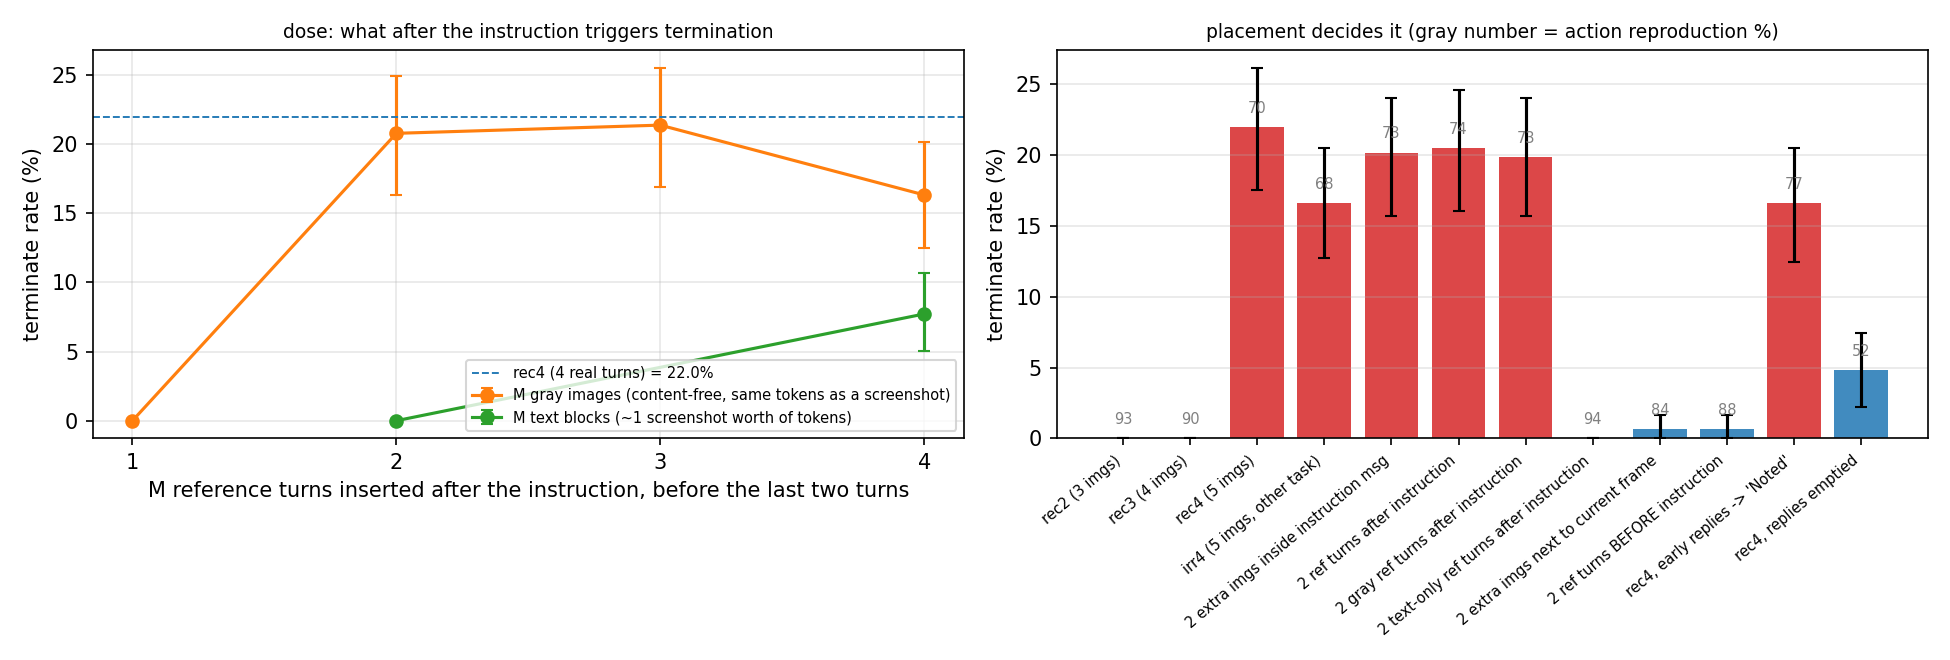
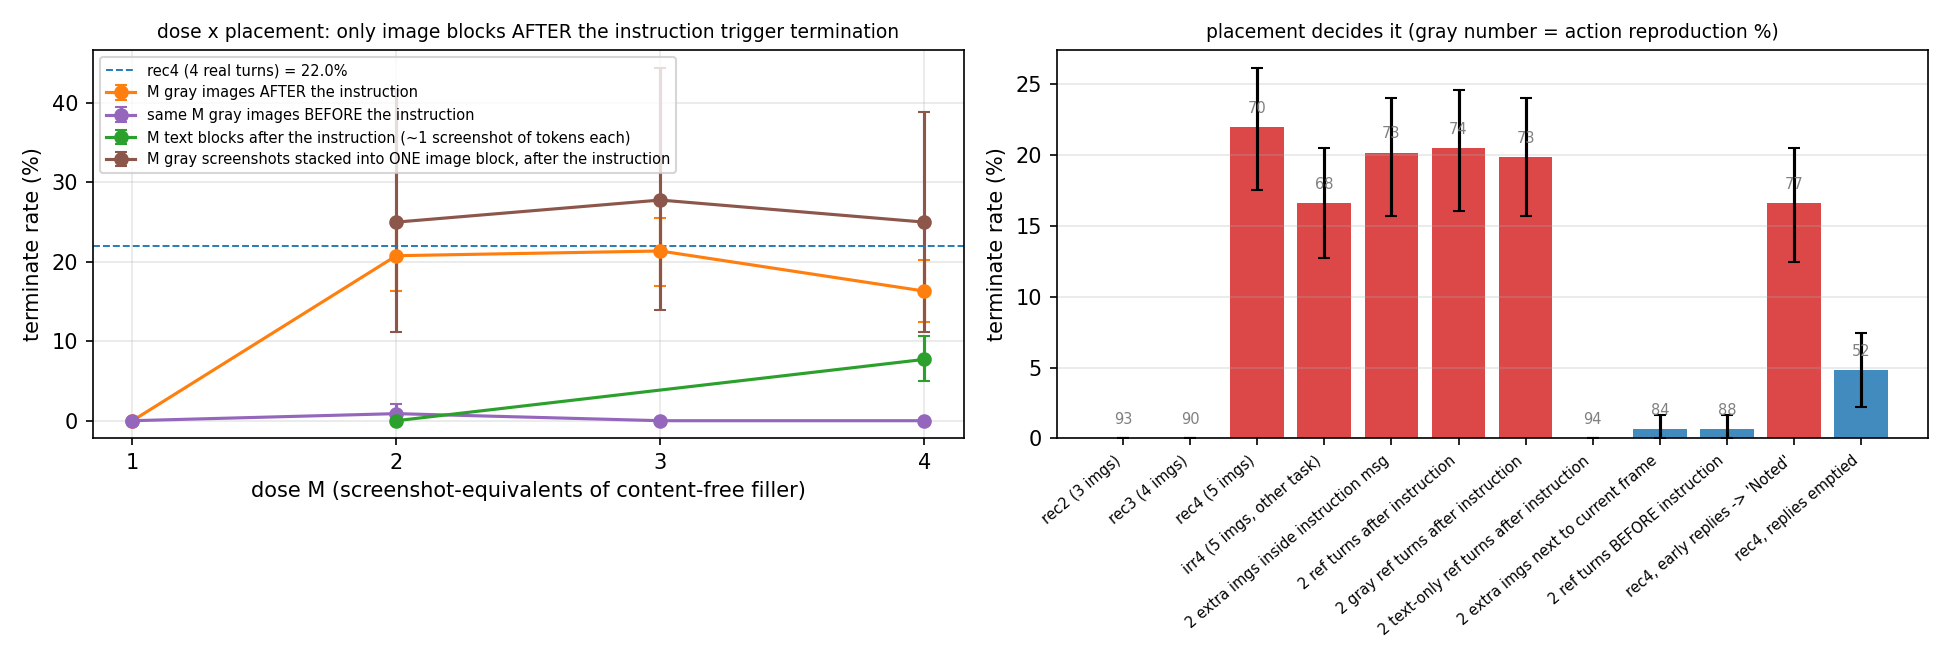
harm: 图 2 加指令之前的剂量曲线与拼图系列

diff --git a/rl/harm/code/plot_trigger.py b/rl/harm/code/plot_trigger.py
@@ -3,7 +3,7 @@
 import json, os, re, random, statistics as st
 import matplotlib; matplotlib.use("Agg"); import matplotlib.pyplot as plt
 H = "/data01/jaxan/harm"
-files = ["harm_vs_n_base_deploy.jsonl", "format_base.jsonl", "format2_base.jsonl", "term_interv_base.jsonl", "goal_interv_base.jsonl", "reply_pattern_base.jsonl", "reply_pattern2_base.jsonl", "dose_base.jsonl"]
+files = ["harm_vs_n_base_deploy.jsonl", "format_base.jsonl", "format2_base.jsonl", "term_interv_base.jsonl", "goal_interv_base.jsonl", "reply_pattern_base.jsonl", "reply_pattern2_base.jsonl", "dose_base.jsonl", "dose2_base.jsonl", "dose3_base.jsonl", "dose4_base.jsonl"]
 recs = {}
 for f in files:
     p = f"{H}/{f}"
@@ -20,7 +20,7 @@ def stat(sp):
     return 100*st.mean(term), 100*ms[25], 100*ms[975], 100*st.mean(rep), n
 fig, (ax1, ax2) = plt.subplots(1, 2, figsize=(13, 4.4))
 # 左:剂量曲线
-for kind, lab, c in (("grayturnin", "M gray images (content-free, same tokens as a screenshot)", "tab:orange"), ("longtextturnin", "M text blocks (~1 screenshot worth of tokens)", "tab:green")):
+for kind, lab, c in (("grayturnin", "M gray images AFTER the instruction", "tab:orange"), ("graybefore", "same M gray images BEFORE the instruction", "tab:purple"), ("longtextturnin", "M text blocks after the instruction (~1 screenshot of tokens each)", "tab:green"), ("graystackturnin", "M gray screenshots stacked into ONE image block, after the instruction", "tab:brown")):
     xs, ys, lo, hi = [], [], [], []
     for m in (1, 2, 3, 4):
         r = stat(f"{kind}{m}")
@@ -28,8 +28,8 @@ for kind, lab, c in (("grayturnin", "M gray images (content-free, same tokens as
     if xs: ax1.errorbar(xs, ys, yerr=[lo, hi], marker="o", capsize=3, label=lab, color=c)
 r0 = stat("rec2_deploy"); r4 = stat("rec4_deploy")
 if r4: ax1.axhline(r4[0], ls="--", color="tab:blue", lw=.9, label=f"rec4 (4 real turns) = {r4[0]:.1f}%")
-ax1.set_xlabel("M reference turns inserted after the instruction, before the last two turns"); ax1.set_ylabel("terminate rate (%)"); ax1.set_xticks([1, 2, 3, 4])
-ax1.set_title("dose: what after the instruction triggers termination", fontsize=9); ax1.grid(alpha=.3); ax1.legend(fontsize=7)
+ax1.set_xlabel("dose M (screenshot-equivalents of content-free filler)"); ax1.set_ylabel("terminate rate (%)"); ax1.set_xticks([1, 2, 3, 4])
+ax1.set_title("dose x placement: only image blocks AFTER the instruction trigger termination", fontsize=9); ax1.grid(alpha=.3); ax1.legend(fontsize=7)
 # 右:5 张图的各种放法
 conds = [("rec2_deploy", "rec2 (3 imgs)"), ("rec3_deploy", "rec3 (4 imgs)"), ("rec4_deploy", "rec4 (5 imgs)"), ("irr4_deploy", "irr4 (5 imgs, other task)"),
          ("hybrid:judge_glm46v|direct|six", "2 extra imgs inside instruction msg"), ("hybridturnin:judge_glm46v|direct|six", "2 ref turns after instruction"),
@@ -46,6 +46,6 @@ for x, y, rp in zip(xs, ys, reps): ax2.text(x, y + 1, f"{rp:.0f}", ha="center", 
 ax2.set_xticks(xs); ax2.set_xticklabels(labels, rotation=40, ha="right", fontsize=7); ax2.set_ylabel("terminate rate (%)")
 ax2.set_title("placement decides it (gray number = action reproduction %)", fontsize=9); ax2.grid(axis="y", alpha=.3)
 plt.tight_layout(); plt.savefig(f"{H}/fig2_trigger.png", dpi=150); print("saved", f"{H}/fig2_trigger.png")
-for sp, lab in conds + [(f"{k}{m}", f"{k}{m}") for k in ("grayturnin", "longtextturnin") for m in (1, 2, 3, 4)]:
+for sp, lab in conds + [(f"{k}{m}", f"{k}{m}") for k in ("grayturnin", "graybefore", "longtextturnin", "graystackturnin") for m in (1, 2, 3, 4)]:
     r = stat(sp)
     if r: print(f"  {sp:44s} term {r[0]:5.1f} [{r[1]:5.1f},{r[2]:5.1f}]  rep {r[3]:5.1f}  n={r[4]}")
